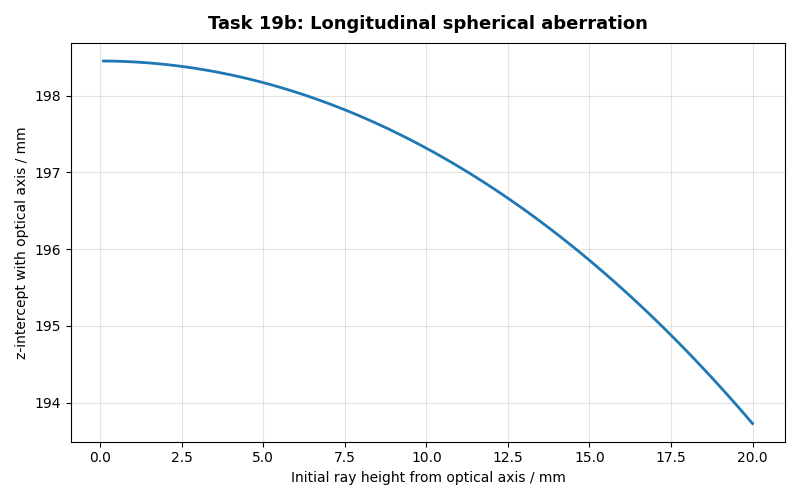
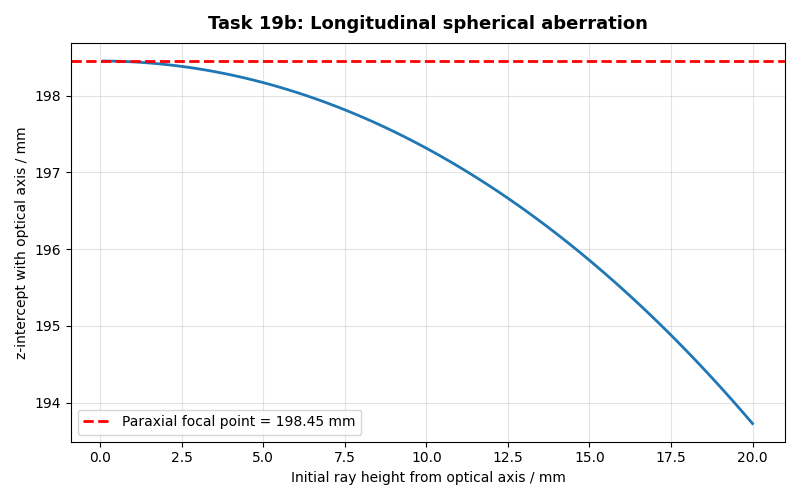
Final (I think)

Changed region(s): [[0.0938, 0.12, 0.9688, 0.15], [0.0938, 0.81, 0.4375, 0.87]]

diff --git a/raytracer/analysis.py b/raytracer/analysis.py
@@ -578,6 +578,14 @@ def task19():
     ax2.set_ylabel("z-intercept with optical axis / mm")
     ax2.set_title("Task 19b: Longitudinal spherical aberration",
                   fontsize=13, fontweight="bold", pad=10)
+    ax2.axhline(
+        focal_point,
+        color = "red",
+        linestyle="--",
+        linewidth=2,
+        label=f"Paraxial focal point = {focal_point:.2f} mm"
+    )
+    ax2.legend()
     fig2.tight_layout()
     return fig1, fig2
 
